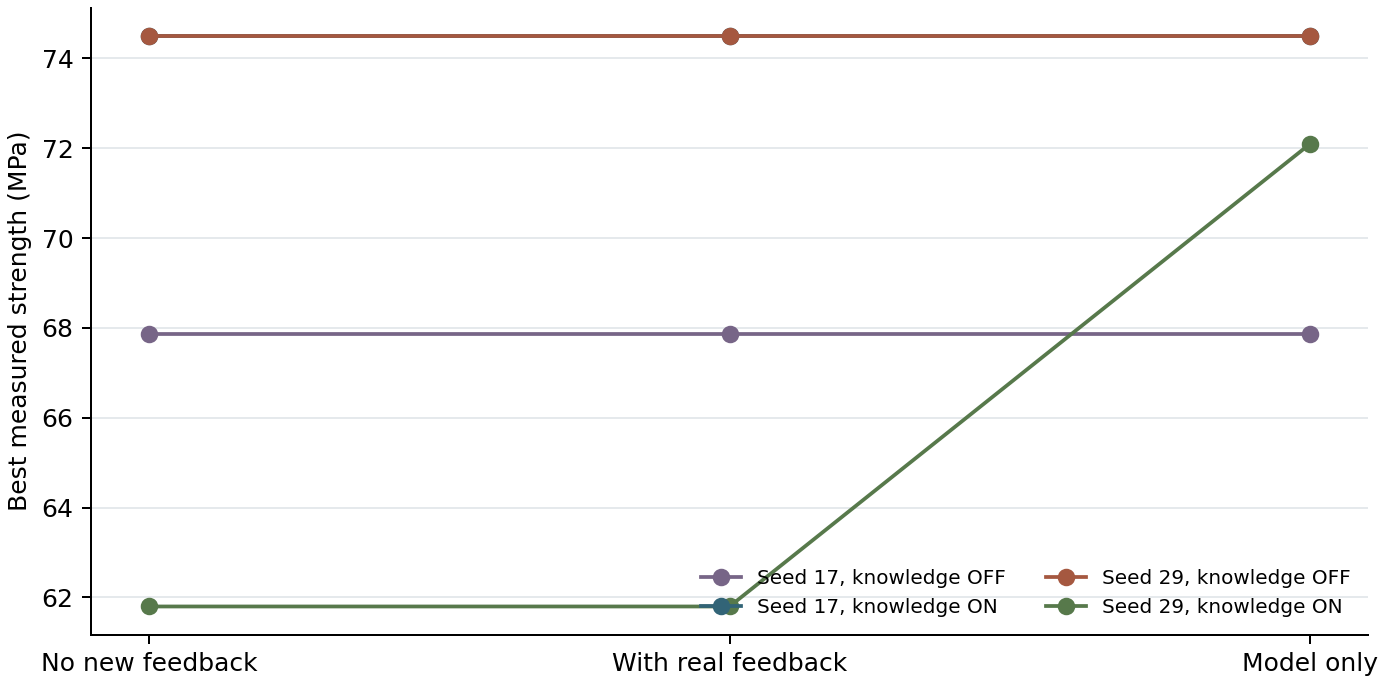
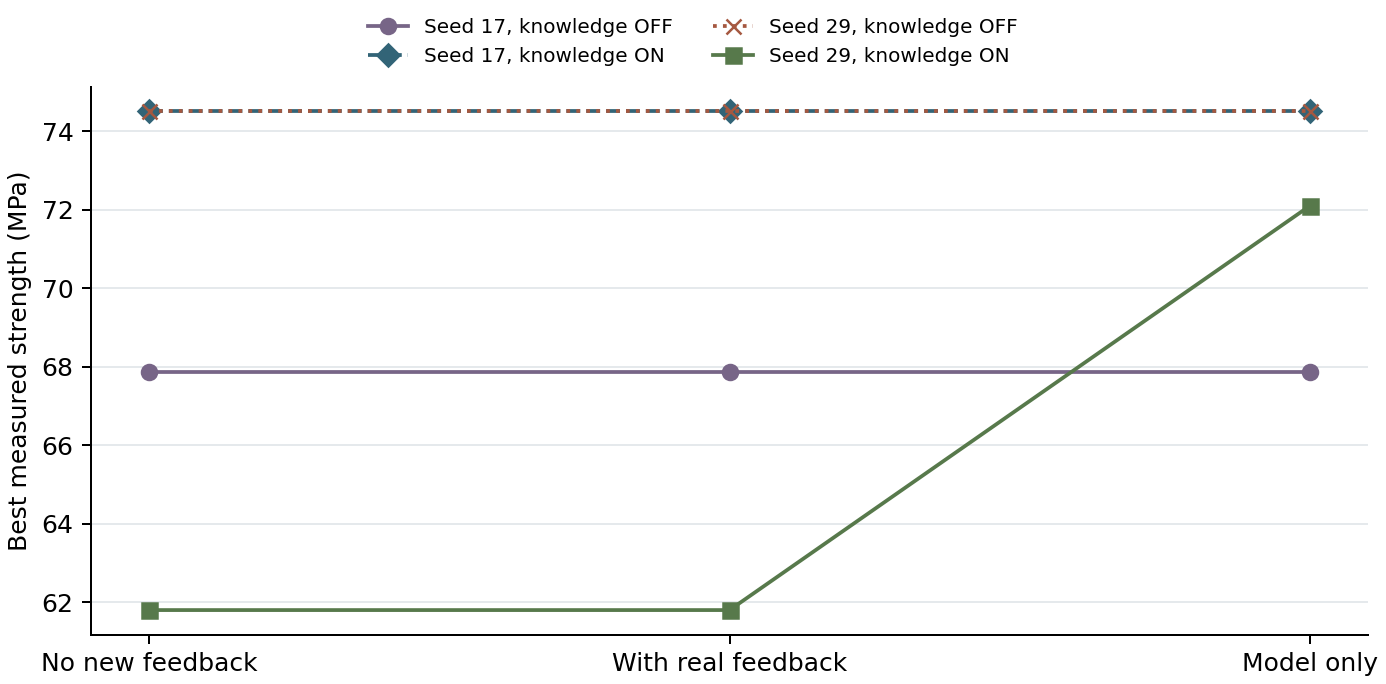
verify audit replay and summarize measured effects

diff --git a/decision_audit.py b/decision_audit.py
@@ -45,15 +45,49 @@ def _paired_figure(frame: pd.DataFrame, figure_dir: Path) -> None:
     fig, ax = plt.subplots(figsize=(7.7, 3.8), layout="constrained")
     cells = ["No new feedback", "With real feedback", "Model only"]
     colors = ("#776587", "#326477", "#A55840", "#57794B")
-    for color, row in zip(colors, frame.itertuples(), strict=True):
+    for color, marker, style, row in zip(colors, ("o", "D", "x", "s"), ("-", "--", ":", "-"),
+                                         frame.itertuples(), strict=True):
         ax.plot(cells, [row.no_feedback_best_mpa, row.with_feedback_best_mpa, row.model_only_best_mpa],
-                "-o", color=color, label=f"Seed {row.seed}, {'knowledge ON' if row.arm.startswith('D') else 'knowledge OFF'}")
+                marker=marker, linestyle=style, color=color,
+                label=f"Seed {row.seed}, {'knowledge ON' if row.arm.startswith('D') else 'knowledge OFF'}")
     ax.set_ylabel("Best measured strength (MPa)")
     ax.grid(axis="y", color="#E5E9EC")
     ax.spines[["right", "top"]].set_visible(False)
-    ax.legend(loc="best", frameon=False, ncol=2, fontsize=8)
+    fig.legend(loc="outside upper center", frameon=False, ncol=2, fontsize=8)
     fig.savefig(figure_dir / "paired-feedback.png", dpi=180)
     plt.close(fig)
+
+
+def _check_replay(original_dir: Path, output: Path, replayed: pd.DataFrame) -> None:
+    original = pd.read_csv(original_dir / "paired_feedback_results.csv")
+    for row in original.itertuples():
+        for label in ("no_feedback", "with_feedback"):
+            source_dir = (original_dir / "paired").resolve()
+            source_trace = (source_dir / getattr(row, f"{label}_trace")).resolve()
+            if not source_trace.is_relative_to(source_dir):
+                raise ValueError("Archived trace reference escapes the audit")
+            expected = getattr(row, f"{label}_trace_sha256")
+            if hashlib.sha256(source_trace.read_bytes()).hexdigest() != expected:
+                raise ValueError("Archived trace digest differs from its recorded digest")
+    # Replay logs have different execution timestamps and execution mode. Response digests are
+    # checked in the policy replay, and the selected data and all paired outcomes must agree.
+    log_hash_columns = ["no_feedback_trace_sha256", "with_feedback_trace_sha256"]
+    pd.testing.assert_frame_equal(original.drop(columns=log_hash_columns), replayed.drop(columns=log_hash_columns),
+                                  check_exact=False, rtol=1e-10, atol=1e-10)
+    pd.testing.assert_frame_equal(pd.read_csv(original_dir / "paired/selections.csv"),
+                                  pd.read_csv(output / "paired/selections.csv"),
+                                  check_exact=False, rtol=1e-10, atol=1e-10)
+
+
+def _batch_mean_comparison(output: Path) -> dict:
+    selections = pd.read_csv(output / "paired/selections.csv")
+    means = selections.groupby(["seed", "arm", "feedback_branch"]).strength_mpa.mean().unstack()
+    gain = means.with_feedback - means.no_feedback
+    return {
+        "mean_batch_strength_gain_mpa": float(gain.mean()),
+        "mean_batch_strength_gain_range_mpa": [float(gain.min()), float(gain.max())],
+        "mean_batch_strength_gain_versus_model_only_mpa": float((means.with_feedback - means.greedy).mean()),
+    }
 
 
 def _write_report(output: Path, summary: dict, records: list[dict], paired: pd.DataFrame | None) -> None:
@@ -91,6 +125,8 @@ def _write_report(output: Path, summary: dict, records: list[dict], paired: pd.D
         delta = paired.delta_best_mpa
         direct = paired.with_feedback_best_mpa - paired.model_only_best_mpa
         eligible = len(paired)
+        secondary = summary["paired_metrics"]
+        selections = pd.read_csv(output / "paired/selections.csv")
         sections += [
             f"在 RF 权重、候选菜单、模型和预算相同的 {eligible} 个配对检查点，"
             f"提供上一轮真实测量后，{changed}/{eligible} 个 Top-5 集合发生变化。"
@@ -99,6 +135,8 @@ def _write_report(output: Path, summary: dict, records: list[dict], paired: pd.D
             f"范围 [{delta.min():+.2f}, {delta.max():+.2f}] MPa。"
             f"有反馈减直接 RF 推荐的平均差为 {direct.mean():+.2f} MPa。"
             "每个条件只测一次模型决策，差异可能含单次响应变动。",
+            f"作为次要指标，整批平均强度的反馈差为 {secondary['mean_batch_strength_gain_mpa']:+.2f} MPa，"
+            f"相对 RF 直排的差值为 {secondary['mean_batch_strength_gain_versus_model_only_mpa']:+.2f} MPa。",
             f"有反馈的推荐理由在 {int((paired.new_feedback_evidence_count > 0).sum())}/{eligible} 个检查点"
             "引用了可追溯的新测量。"
             f"有反馈 Agent 与直接 RF 直排平均重叠 {paired.with_feedback_greedy_overlap.mean()/5:.0%}。"
@@ -115,11 +153,20 @@ def _write_report(output: Path, summary: dict, records: list[dict], paired: pd.D
                 f"{row.model_only_best_mpa:.2f} | {row.delta_best_mpa:+.2f} | {row.selection_overlap}/5 |"
             )
         weakest = paired.assign(gap=direct).sort_values(["gap", "seed"]).iloc[0]
+        case = selections[(selections.seed == weakest.seed) & (selections.arm == weakest.arm)]
+        greedy = case[case.feedback_branch == "greedy"].sort_values("strength_mpa").iloc[-1]
+        picked = case[case.feedback_branch == "with_feedback"]
         sections += [
             "",
             f"有反馈相对 RF 最弱的检查点是种子 {weakest.seed}、知识"
-            f"{'开' if weakest.arm.startswith('D') else '关'}，差值 {weakest.gap:+.2f} MPa。"
-            "该格的理由、测量误差、候选和遗憾值可复核。",
+            f"{'开' if weakest.arm.startswith('D') else '关'}，差值 {weakest.gap:+.2f} MPa。",
+        ]
+        if greedy.id not in set(picked.id):
+            sections.append(
+                f"有反馈的选择漏掉了 RF 排名第 {greedy.rf_rank} 的 {greedy.id}，"
+                f"其存档实测为 {greedy.strength_mpa:.2f} MPa。"
+            )
+        sections += [
             "",
             "[配对结果与遗憾值](paired_feedback_results.csv) · [逐候选测量](paired/selections.csv) · "
             "[配对曲线](figures/paired-feedback.png)",
@@ -186,8 +233,7 @@ def run(run_dir: Path, output: Path, *, paired: bool = False, replay: Path | Non
         if result["status"] == "complete":
             table = pd.read_csv(pair_dir / "pairs.csv")
             if replay:
-                original = pd.read_csv(replay / "paired_feedback_results.csv")
-                pd.testing.assert_frame_equal(original, table, check_exact=False, rtol=1e-10, atol=1e-10)
+                _check_replay(replay, output, table)
             table.to_csv(output / "paired_feedback_results.csv", index=False, lineterminator="\n")
             delta = table.delta_best_mpa
             summary["paired_metrics"] = {
@@ -203,6 +249,7 @@ def run(run_dir: Path, output: Path, *, paired: bool = False, replay: Path | Non
                 "mean_gain_versus_model_only_mpa": float((table.with_feedback_best_mpa - table.model_only_best_mpa).mean()),
                 "pairs_with_traceable_new_evidence_in_reasoning": int((table.new_feedback_evidence_count > 0).sum()),
             }
+            summary["paired_metrics"].update(_batch_mean_comparison(output))
             _paired_figure(table, figure_dir)
         else:
             summary["paired_reason"] = result.get("reason", "配对决策没有通过校验。")

diff --git a/evidence/decision-audit/audit_report.md b/evidence/decision-audit/audit_report.md
@@ -17,6 +17,7 @@
 
 在 RF 权重、候选菜单、模型和预算相同的 4 个配对检查点，提供上一轮真实测量后，4/4 个 Top-5 集合发生变化。平均集合重叠为 65%。
 有反馈减无反馈的最佳实测强度平均差为 +0.00 MPa，范围 [+0.00, +0.00] MPa。有反馈减直接 RF 推荐的平均差为 -2.57 MPa。每个条件只测一次模型决策，差异可能含单次响应变动。
+作为次要指标，整批平均强度的反馈差为 +1.72 MPa，相对 RF 直排的差值为 -2.87 MPa。
 有反馈的推荐理由在 4/4 个检查点引用了可追溯的新测量。有反馈 Agent 与直接 RF 直排平均重叠 65%。无反馈和有反馈的平均遗憾值分别为 5.43 和 5.43 MPa。
 
 | 种子 | 知识 | 无新反馈 MPa | 有真实反馈 MPa | RF 直排 MPa | 反馈差 MPa | 重叠 |
@@ -26,7 +27,8 @@
 | 29 | 关 | 74.50 | 74.50 | 74.50 | +0.00 | 3/5 |
 | 29 | 开 | 61.80 | 61.80 | 72.10 | +0.00 | 4/5 |
 
-有反馈相对 RF 最弱的检查点是种子 29、知识开，差值 -10.30 MPa。该格的理由、测量误差、候选和遗憾值可复核。
+有反馈相对 RF 最弱的检查点是种子 29、知识开，差值 -10.30 MPa。
+有反馈的选择漏掉了 RF 排名第 1 的 mix-380，其存档实测为 72.10 MPa。
 
 [配对结果与遗憾值](paired_feedback_results.csv) · [逐候选测量](paired/selections.csv) · [配对曲线](figures/paired-feedback.png)
 
